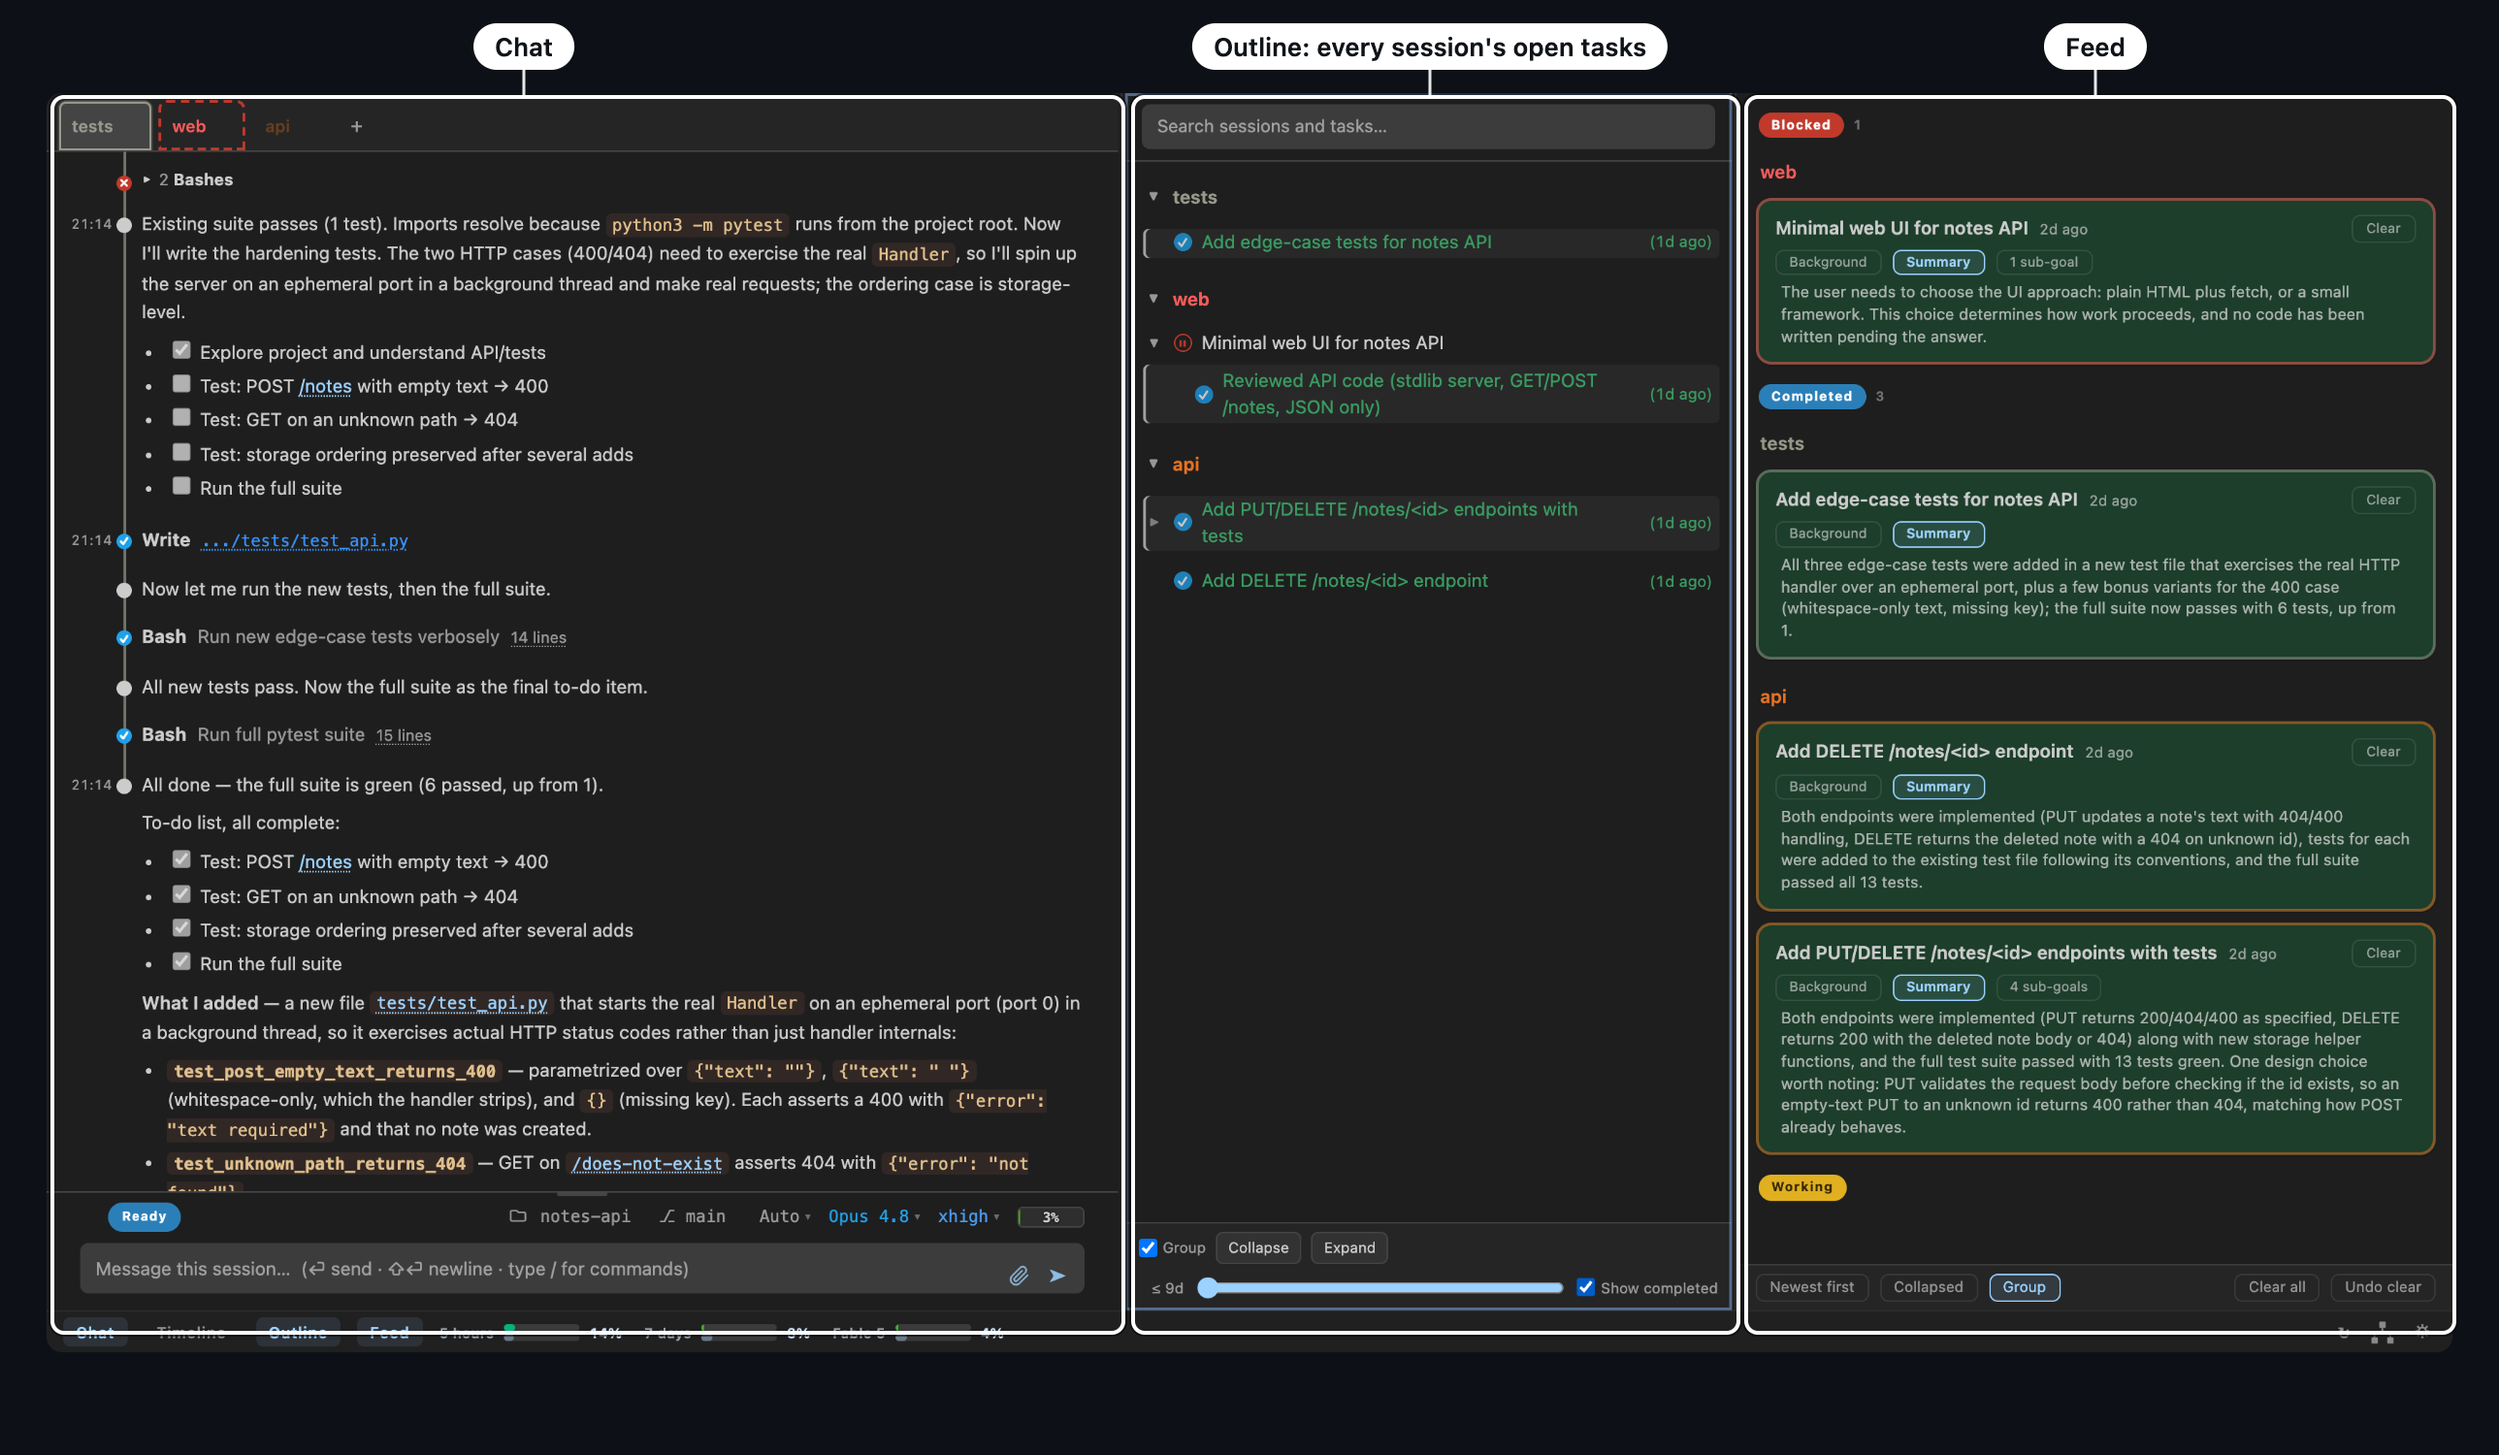
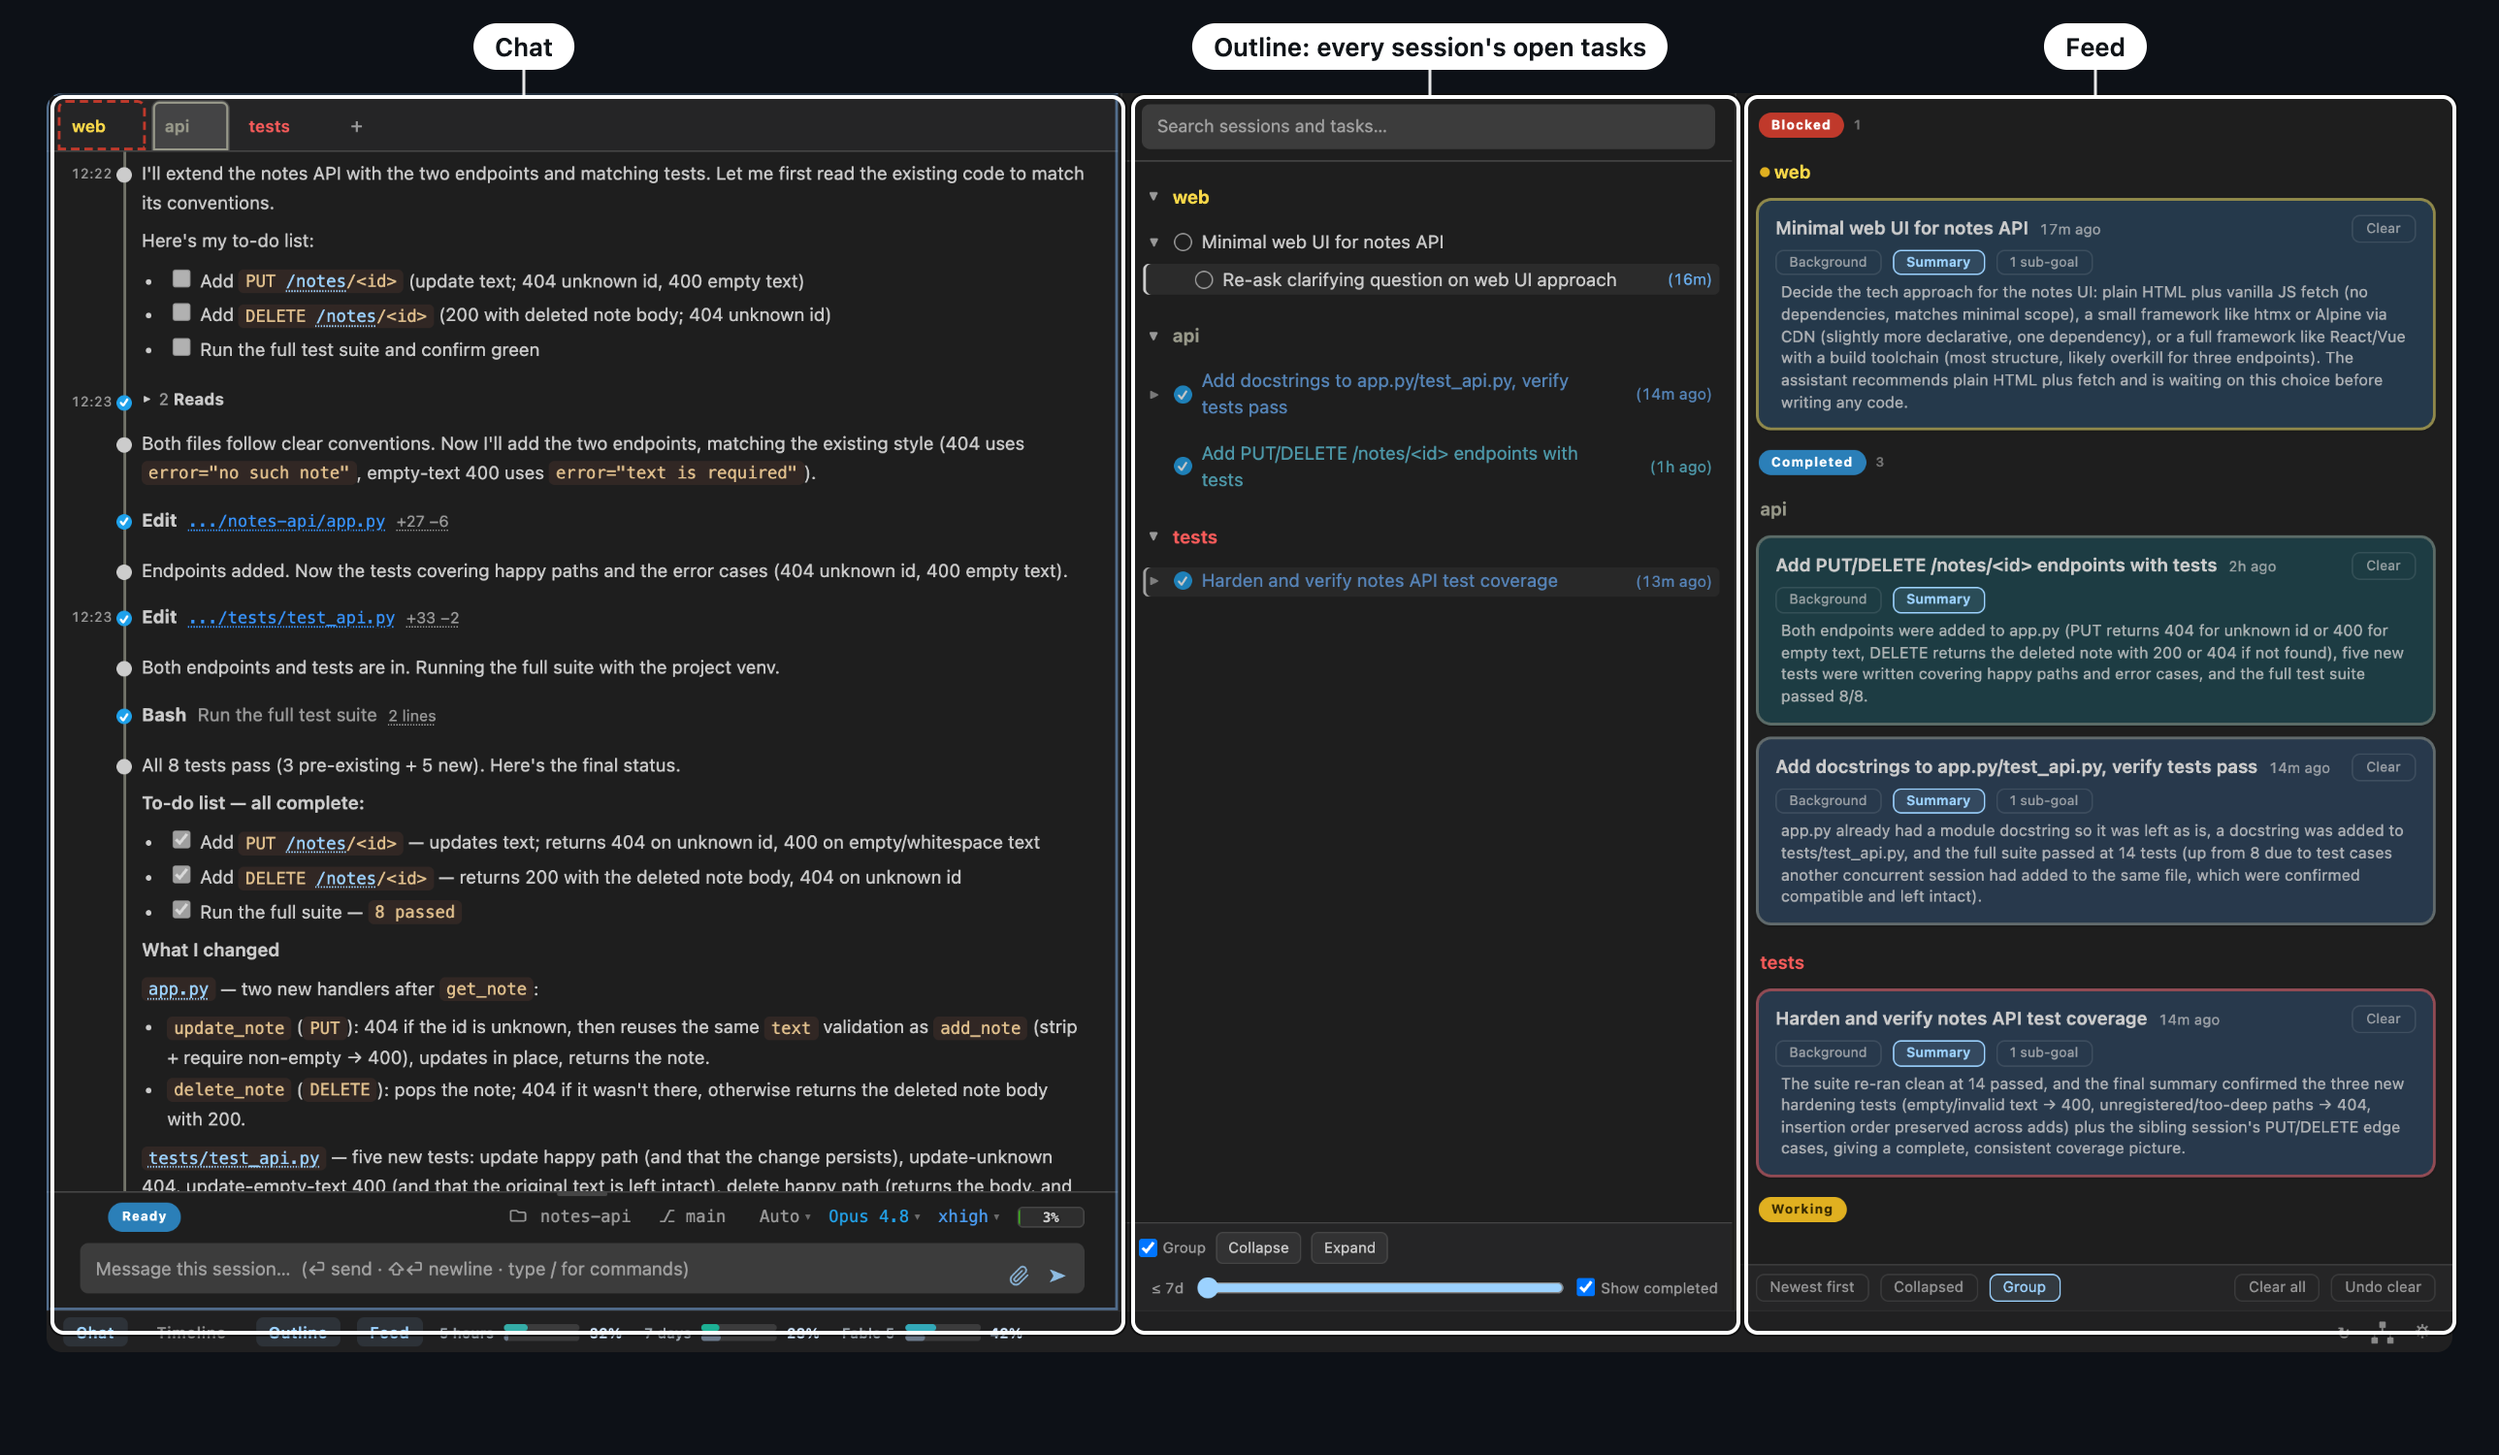
Docs: fresh chat/hero/timeline-hover captures, network-button figure, SDK-vs-tmux guidance
The chat figure is a full-width pane capture, so the timestamps and the
message box are in frame; the timeline figure hovers a live bar with its
story popup and a striped waiting lane. A new bottom-bar figure points at
the network button where machines attach, and the federation setup step
now says bottom right instead of top bar. The backend reference now
recommends the SDK backend plainly and explains why terminal scraping is
less reliable, while noting the two backends interleave in one fleet.

diff --git a/docs/reference.md b/docs/reference.md
@@ -39,14 +39,21 @@ romp --mail working "<note>"      # publish what this session is working on
 
 Sessions run on one of two backends, chosen per session:
 
-- **Agent SDK (the default).** The kernel drives the session through the
-  Claude Agent SDK. Sessions started from the dashboard use this; it is the
-  most robust path, with native pickers, queued sends, and model switching.
+- **Agent SDK (the default, strongly recommended).** The kernel drives the
+  session through the Claude Agent SDK: a direct programmatic connection, with
+  native pickers, queued sends, and model switching. Sessions started from the
+  dashboard use this.
 - **tmux.** A regular Claude Code terminal session running inside tmux. Romp
-  reads the same transcript, and delivers messages and nudges by injecting
-  text into the terminal. Injection is inherently less robust than the SDK,
-  but it lets Romp ride along with the terminal Claude Code you already use:
-  run `romp <name>` and the session shows up on the dashboard like any other.
+  has no direct connection to it, so it works by reading what appears in the
+  terminal and on disk, and delivers messages and nudges by injecting
+  keystrokes. That makes it inherently less reliable and less responsive than
+  the SDK: scraping a terminal has edge cases a real API does not, and updates
+  wait on the transcript reaching disk.
+
+The tmux backend exists for when you want the session in an actual terminal:
+run `romp <name>` and that terminal session shows up on the dashboard like any
+other. The two interleave freely in one fleet, so a terminal session can sit
+alongside SDK sessions; it just won't be as smooth as they are.
 
 ## What the installer sets up
 

diff --git a/docs/guide.md b/docs/guide.md
@@ -176,7 +176,10 @@ Setup is one install and one click:
 1. On the remote machine: clone romp and run `./install.sh` (`ROMP_NO_EXT=1`
    skips the editor extension on a headless box). Make sure `ssh <host>` works
    non-interactively.
-2. In your dashboard: open the network icon in the top bar and attach the host.
+2. In your dashboard: click the network button at the bottom right and attach
+   the host.
+
+![The network button, bottom right, is where machines attach](assets/guide/network-button.png){ width="100%" }
 
 The attach fetches the remote kernel's token over ssh, opens the tunnels, and
 starts the remote kernel if it isn't running.
